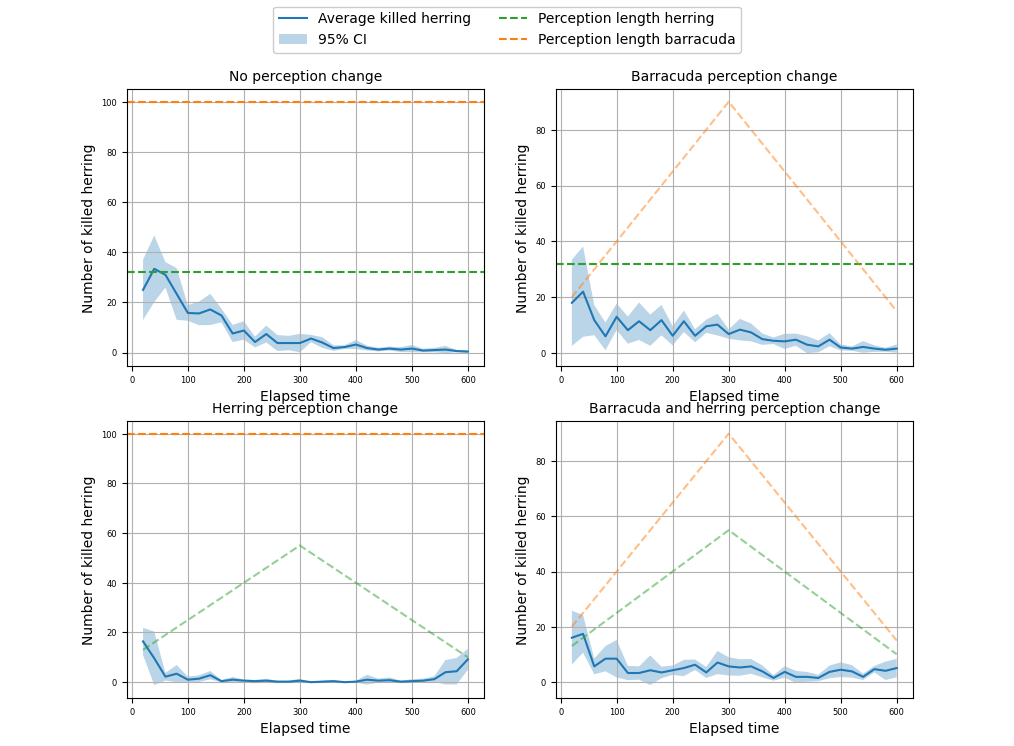
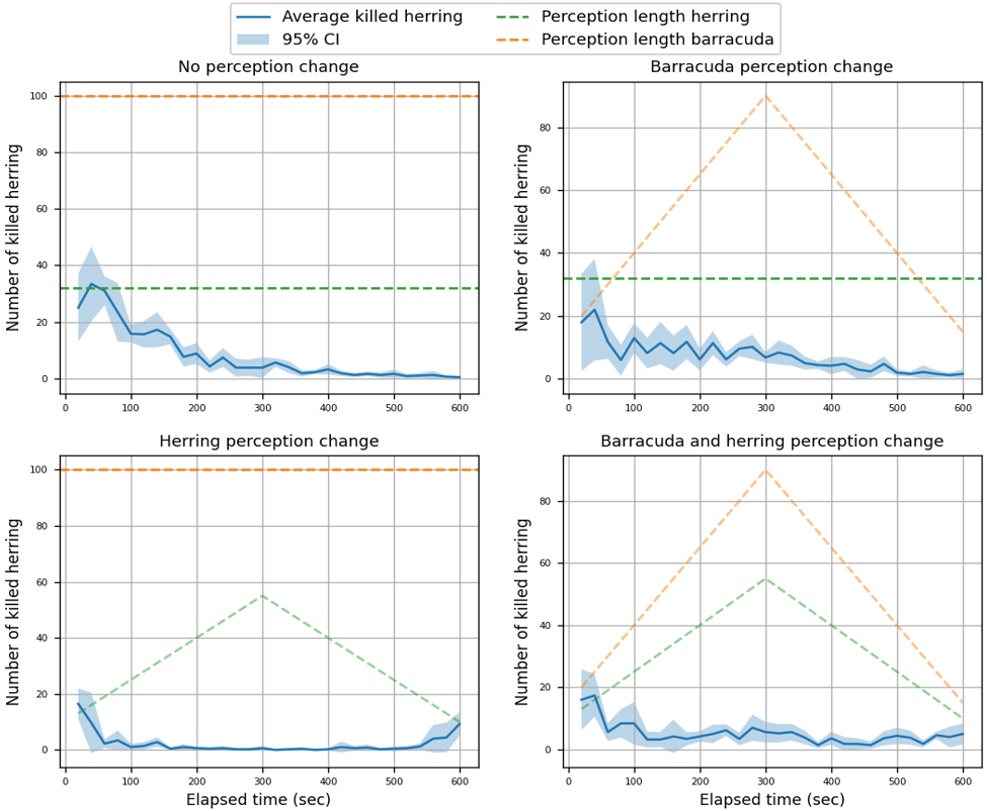
updated perception plot

diff --git a/code/visualisation.py b/code/visualisation.py
@@ -529,64 +529,66 @@ def visualizing_perception_change(number_simulations, time_simulation):
     axs[0, 0].fill_between(return_values_dict1['Elapsed_time'], summary_df_no_change['CI_low'], summary_df_no_change['CI_high'], alpha=0.3, label='95% CI')
     axs[0, 0].axhline(y=32, color='tab:green', linestyle='--',  label='Perception length herring')
     axs[0, 0].axhline(y=100, color='tab:orange', linestyle='--',  label='Perception length barracuda')
-    axs[0, 0].set_title('No perception change', fontsize=10)
+    axs[0, 0].set_title('No perception change', fontsize=11)
 
     # Predator perception change
     axs[0, 1].plot(return_values_dict2['Elapsed_time'], summary_df_predator_change['Mean'])
     axs[0, 1].fill_between(return_values_dict2['Elapsed_time'], summary_df_predator_change['CI_low'], summary_df_predator_change['CI_high'], alpha=0.3 )
     axs[0, 1].axhline(y=32, color='tab:green', linestyle='--')
     axs[0, 1].plot(return_values_dict2['Elapsed_time'], return_values_dict2['Perception_lenghts_predator'], 'tab:orange', linestyle='--', alpha=0.5)
-    axs[0, 1].set_title('Barracuda perception change', fontsize=10)
+    axs[0, 1].set_title('Barracuda perception change', fontsize=11)
 
     # Herring perception change
     axs[1, 0].plot(return_values_dict3['Elapsed_time'], summary_df_herring_change['Mean'])
     axs[1, 0].fill_between(return_values_dict3['Elapsed_time'], summary_df_herring_change['CI_low'], summary_df_herring_change['CI_high'], alpha=0.3)
     axs[1, 0].axhline(y=100, color='tab:orange', linestyle='--')
     axs[1, 0].plot(return_values_dict3['Elapsed_time'], return_values_dict3['Perception_lenghts_herring'], 'tab:green', linestyle='--', alpha=0.5)
-    axs[1, 0].set_title('Herring perception change', fontsize=10)
+    axs[1, 0].set_title('Herring perception change', fontsize=11)
+    axs[1, 0].set_xlabel('Elapsed time (sec)')
 
     # Both herring and predator perception change (herring count lists should be the same so does not matter which one you choose)
     axs[1, 1].plot(return_values_dict4['Elapsed_time'], summary_df_both_change['Mean'])
     axs[1, 1].fill_between(return_values_dict4['Elapsed_time'], summary_df_both_change['CI_low'], summary_df_both_change['CI_high'], alpha=0.3)
     axs[1, 1].plot(return_values_dict4['Elapsed_time'], return_values_dict4['Perception_lenghts_herring'], 'tab:green', linestyle='--', alpha=0.5)
     axs[1, 1].plot(return_values_dict4['Elapsed_time'], return_values_dict4['Perception_lenghts_predator'], 'tab:orange', linestyle='--', alpha=0.5)
-    axs[1, 1].set_title('Barracuda and herring perception change', fontsize=10)
+    axs[1, 1].set_title('Barracuda and herring perception change', fontsize=11)
+    axs[1, 1].set_xlabel('Elapsed time (sec)')
 
     fig.legend(loc='upper center', bbox_to_anchor=(0.5, 1.0), ncol=2, fontsize='medium', framealpha=1)
 
     for ax in axs.flat:
-        ax.set(xlabel= 'Elapsed time', ylabel= 'Number of killed herring')
-        ax.tick_params(axis='y', which='both', labelleft=True, labelsize=6)
-        ax.tick_params(axis='x', which='both', labelsize=6)
+        ax.set(ylabel= 'Number of killed herring')
+        ax.tick_params(axis='y', which='both', labelleft=True, labelsize=8)
+        ax.tick_params(axis='y', which='both', labelleft=True, labelsize=8)
         ax.grid(True)
 
     plt.show()
 
 if __name__ == "__main__":
-    # # Determine the influence of the boid rules
-    # df_boid_killed = influence_boid_rules(40, 60)
-    # significant_test_boidsrules(df_boid_killed)
-    #
-    # # Determine the influence of rocks on the killing rate
-    # influence_rocks(80, 20, 30)
-    #
-    # #Determine the invluence of more predators
-    # influence_predator_number(20, 20, 30)
-    #
-    # # Determine the influence of the scoolsize
-    # df_school_size = influence_school_size(40, 30)
-    # significant_test_school_size(df_school_size)
-    #
-    # # Determine the influence of the alignment distance
-    # influence_alignment_distance(30, 30)
-    #
-    # # Determine what influence if predators are more within the separation distance
-    # df_closeness_herring = influences_closeness_herring(40, 30)
-    # significant_test_close(df_closeness_herring)
-    # significant_test_killed(df_closeness_herring)
+    # Determine the influence of the boid rules
+    df_boid_killed = influence_boid_rules(40, 60)
+    significant_test_boidsrules(df_boid_killed)
+
+    # Determine the influence of rocks on the killing rate
+    influence_rocks(80, 20, 30)
+
+    #Determine the invluence of more predators
+    influence_predator_number(20, 20, 30)
+
+    # Determine the influence of the scoolsize
+    df_school_size = influence_school_size(40, 30)
+    significant_test_school_size(df_school_size)
+
+    # Determine the influence of the alignment distance
+    influence_alignment_distance(30, 30)
+
+    # Determine what influence if predators are more within the separation distance
+    df_closeness_herring = influences_closeness_herring(40, 30)
+    significant_test_close(df_closeness_herring)
+    significant_test_killed(df_closeness_herring)
 
     # Determine the influence of changes in the perception length
-    visualizing_perception_change(1, 60)
+    visualizing_perception_change(1, 30)
 
     # Do a sensitivity analyse for the alignment, separation and cohesion distance
     sensitivity_rules_distance(30, 30)
